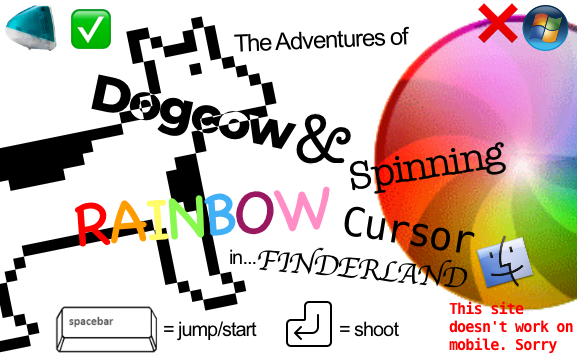
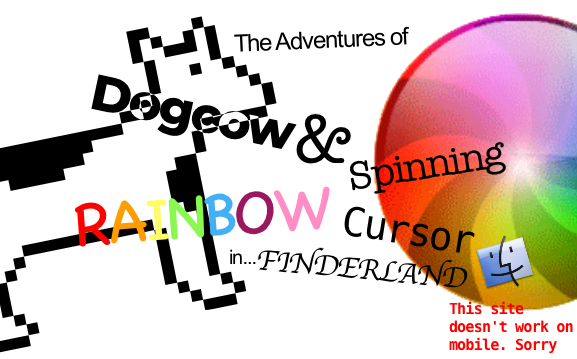
added tutorial and made controls more clear

diff --git a/scripts.js b/scripts.js
@@ -9,8 +9,9 @@ var livesImage;
 var bulletImage;
 var titleImage;
 var gameOverImage;
+var tutorialImage;
 
-//0=start menu, 1=playing, 2=gameover
+//0=start menu, 1=playing, 2=gameover, 3=tutorial
 var gameState = 0;
 
 var game;
@@ -60,6 +61,10 @@ function initGame() {
 	//bullet
 	bulletImage = new Image();
 	bulletImage.src = "images/bullet.png";
+	
+	//tutorial
+	tutorialImage = new Image();
+	tutorialImage.src = "images/tutorial.png";
 }
 
 function start() {
@@ -309,10 +314,14 @@ class Game {
 			if(e.code == "Space") {
 				switch(gameState) {
 					case 0:
-						this.resetGame()
+						this.tick = 0;
+						gameState = 3;
 						break;
 					case 2:
-						this.resetGame()
+						this.resetGame();
+						break;
+					case 3:
+						this.resetGame();
 						break;
 					default:
 						this.player.jump();
@@ -368,11 +377,29 @@ class Game {
 			case 2:
 				this.drawGameOver();
 				break;
+			case 3:
+				this.drawTutorial();
+				break;
 			default:
 				this.incrementGame()
 				this.drawGame();
 		}
 		setTimeout(function() {me.refresh();},this.speed);
+	}
+	
+	drawTutorial() {
+		var c = screenCanvas.getContext("2d");
+		c.clearRect(0,0,screenCanvas.width, screenCanvas.height);
+		
+		c.drawImage(tutorialImage, 0,0,this.screenCanvas.width, this.screenCanvas.height);
+		
+		if(this.tick%200 < 100) {
+			c.font = "30px Arial";
+			c.fillStyle = "red";
+			c.textAlign = "right";
+			c.fillText("Press Space To Continue", this.screenCanvas.width-20, this.screenCanvas.height-20);
+		}
+		this.tick++;
 	}
 	
 	generateEnemy() {
@@ -593,6 +620,14 @@ class Game {
 		c.clearRect(0,0,screenCanvas.width, screenCanvas.height);
 		
 		c.drawImage(titleImage, 0,0,this.screenCanvas.width, this.screenCanvas.height);
+		
+		if(this.tick%200 < 100) {
+			c.font = "30px Arial";
+			c.fillStyle = "red";
+			c.textAlign = "center";
+			c.fillText("Press Space To Start", this.screenCanvas.width*0.5-50, this.screenCanvas.height-20);
+		}
+		this.tick++;
 	}
 	
 	drawGameOver() {
@@ -605,6 +640,7 @@ class Game {
 	drawGame() {
 		var c = screenCanvas.getContext("2d");
 		c.clearRect(0,0,screenCanvas.width, screenCanvas.height);
+		c.fillStyle = "black";
 		
 		//draw player
 		if(this.player.visible) {
